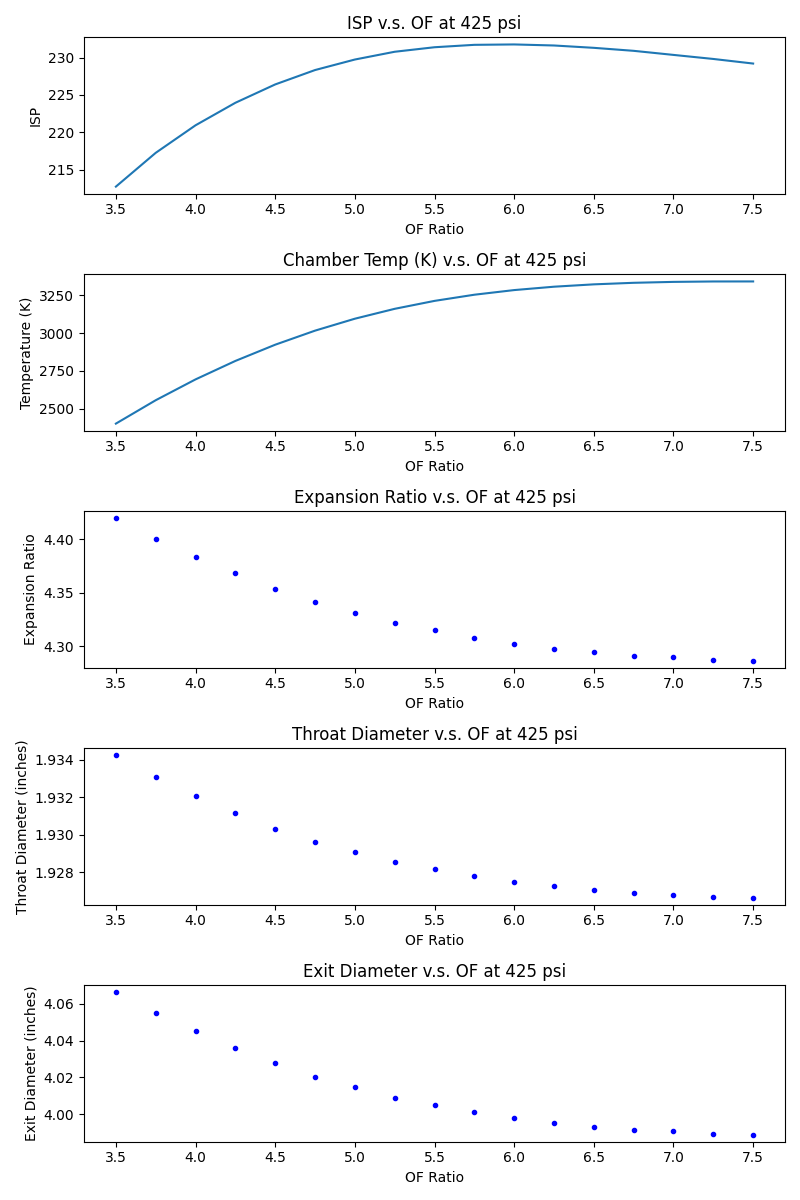
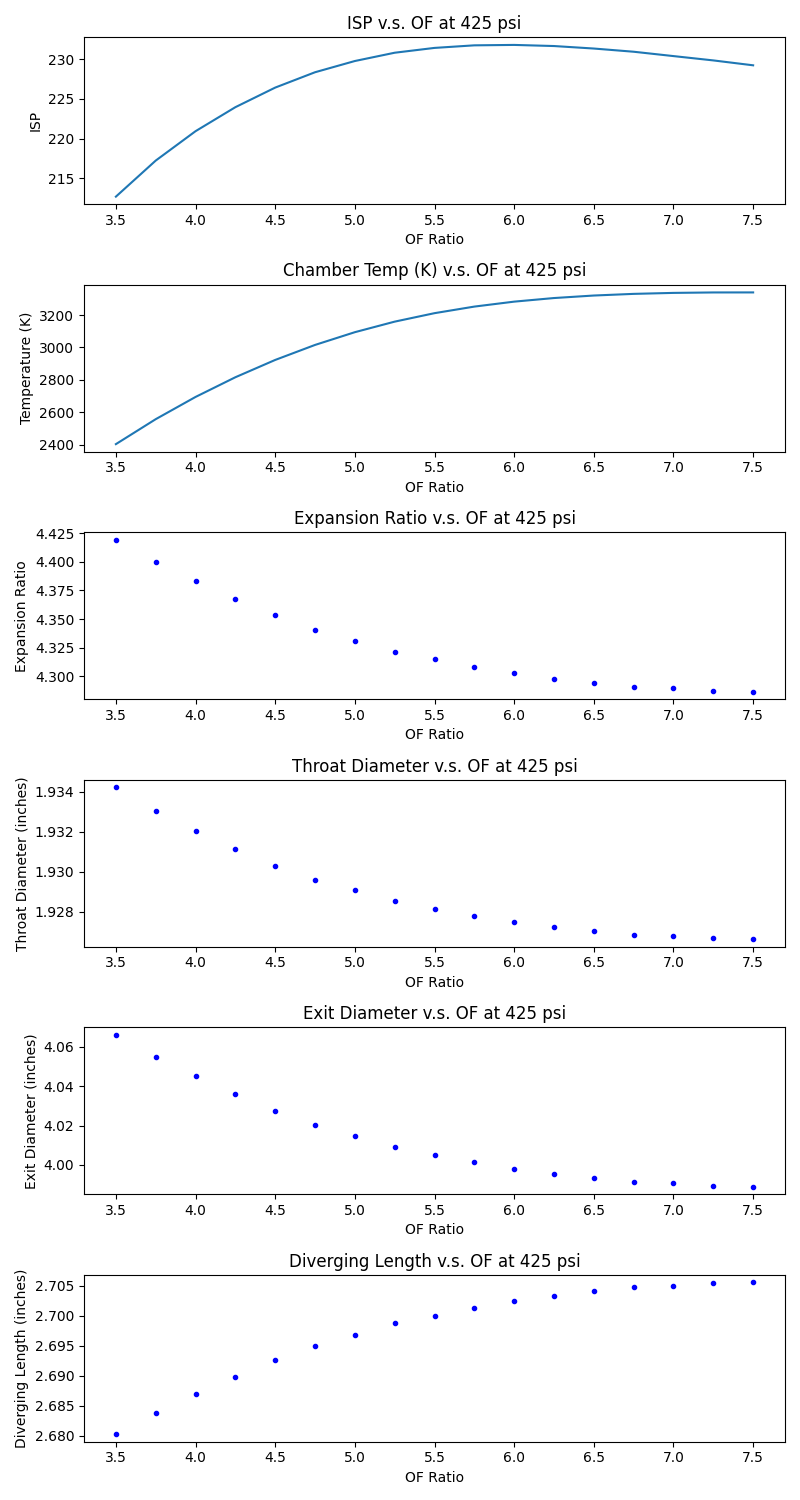
added diverging length for conical nozzle config

diff --git a/graphs.py b/graphs.py
@@ -6,6 +6,7 @@ from calculations import getMassFlow
 from calculations import getExhaustVelocity
 from calculations import getThroatDiameter
 from calculations import getExitDiameter
+from calculations import getDivergingLength
 
 impulse = 40960 #in N, harcoded constant
 burn_time = 5.1 #in s, hardcoded constant
@@ -23,7 +24,7 @@ def getData(paths, pressure):
     MOL_WEIGHT = df["MOL_WEIGHT"].to_numpy()
 
 
-    fig, axs = plt.subplots(5, figsize = (8,12))  
+    fig, axs = plt.subplots(6, figsize = (8,15))  
     """
     Plot in the following order:
     Graphs for ISP v.s. OF, 
@@ -70,7 +71,7 @@ def getData(paths, pressure):
 
     """exit cone diameter calculations"""
     exit_diameter = []
-    for i in range(len(throat_diameter)):
+    for i in range(len(df)):
         exit_diameter.append(getExitDiameter(exp_ratios[i], throat_diameter[i]))
     exit_diameter = np.array(exit_diameter)
 
@@ -78,6 +79,17 @@ def getData(paths, pressure):
     axs[4].set_xlabel("OF Ratio")
     axs[4].set_ylabel("Exit Diameter (inches)")
     axs[4].set_title(f"Exit Diameter v.s. OF at {pressure} psi")
+
+    """exit length calculations"""
+    diverging_length = []
+    for i in range(len(df)):
+        diverging_length.append(getDivergingLength(throat_diameter[i], exp_ratios[i], conical = True))
+    np.array(diverging_length)
+    axs[5].scatter(OF, diverging_length, color = "blue", marker = ".")
+    axs[5].set_xlabel("OF Ratio")
+    axs[5].set_ylabel("Diverging Length (inches)")
+    axs[5].set_title(f"Diverging Length v.s. OF at {pressure} psi")
+
 
     fig.tight_layout() #no overlapp of titles
 

diff --git a/calculations.py b/calculations.py
@@ -1,6 +1,8 @@
 from math import sqrt
 from math import pow
 from math import pi
+from math import tan
+from math import cos
 
 def getOptimumExpansionRatio(T, k, P0):
     """
@@ -42,7 +44,25 @@ def getThroatDiameter(mdot, P0, molecular_mass, T0, k):
 
 def getExitDiameter(exp_ratio, throat_diameter):
     return sqrt(throat_diameter**2 * exp_ratio)
-#Ae = ep * At
-#de^2 = ep * dt^2
+    #Ae = ep * At
+    #de^2 = ep * dt^2
+def getDivergingLength(throat_diameter, exp_ratio, half_angle = 15, conical = False, bell = False):
+    """
+    Returns the length from the throat section to the end of the diverging section for different nozzle configurations. 
+    Throat_diameter should be in inches, half angle
+    is in degrees. 
+    """
+    if conical:
+        """
+        Conical nozzle constructed as follows: draw an arc of a circle with radius R = 1.5 * R_throat. Draw the tangent line to the arc
+        at the end of the arc and extend it (this is the diverging section)
+        """
+        throat_radius = throat_diameter / 2
+        trapezoidal_comp = throat_radius * (sqrt(exp_ratio) - 1) / tan(half_angle)
+        R = 1.5 * throat_radius #rule of thumb, see construction
+        arc_comp = R * ((1.0/cos(half_angle)) - 1) / tan(half_angle)
+        return trapezoidal_comp + arc_comp
 
+    elif bell:
+        return
 
